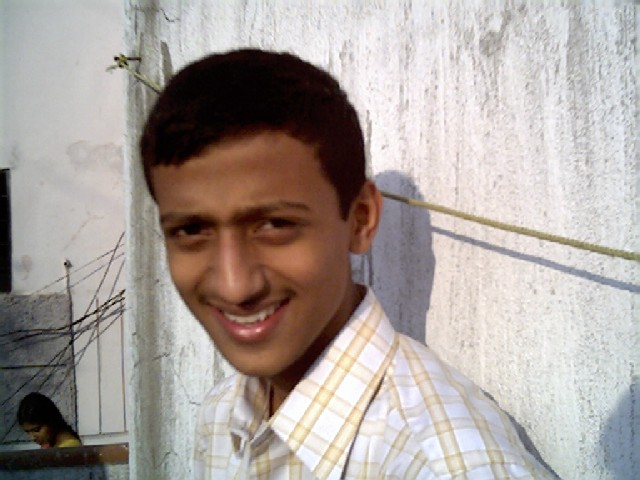
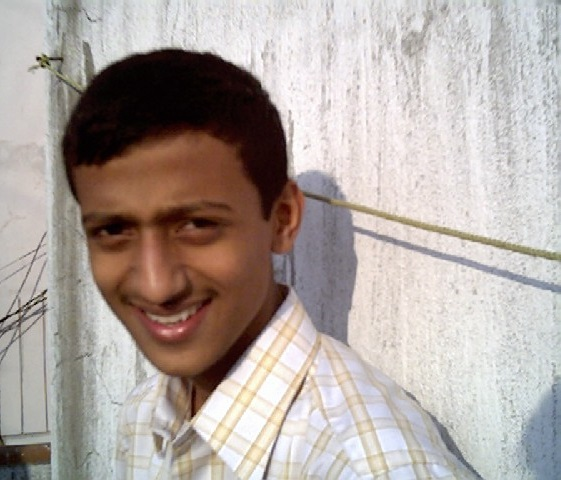
cropped the image

diff --git a/src/main/resources/static/pme.html b/src/main/resources/static/pme.html
@@ -9,7 +9,7 @@
  vlink="#66FF00"
  alink="#FF0000">
 <font face="comic sans ms,lucida sans, arial" size="4"><br><br><br>
-<center><image src="me.jpg" width="640" height="480" border="0" alt="melarge"></center>
+<center><image src="me.jpg" width="561" height="480" border="0" alt="melarge"></center>
 </font>
 </body>
 </html>
